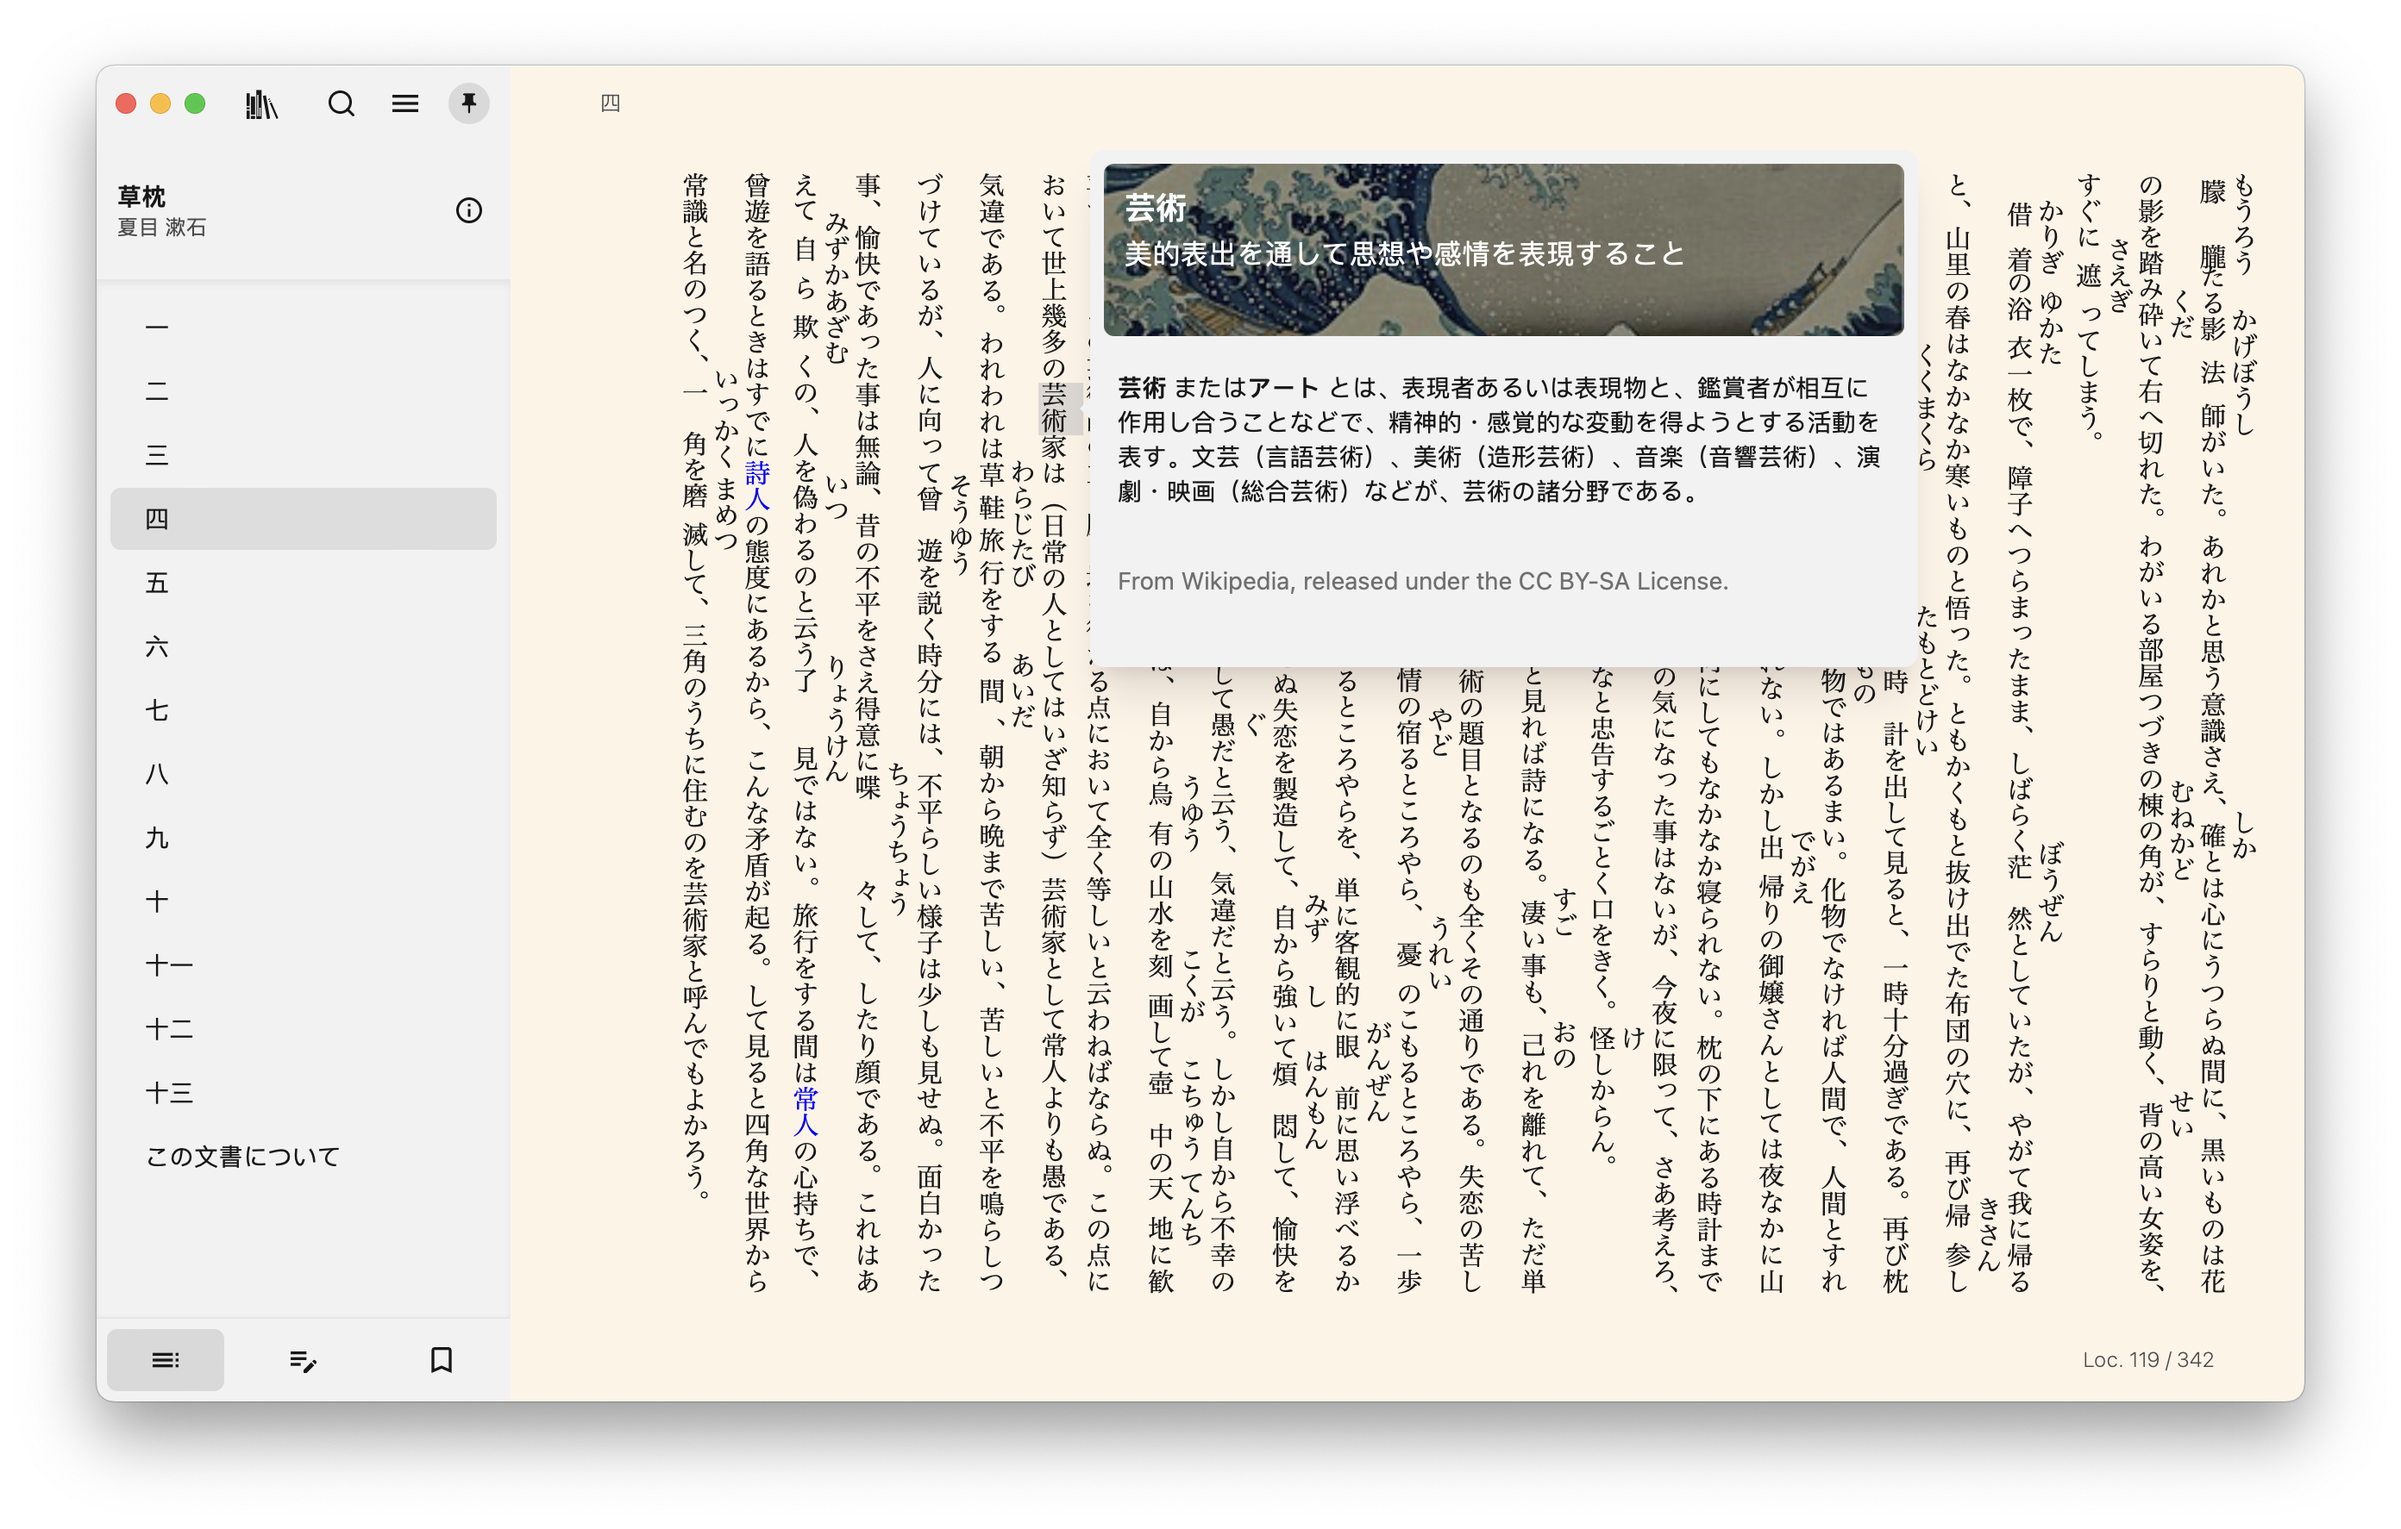
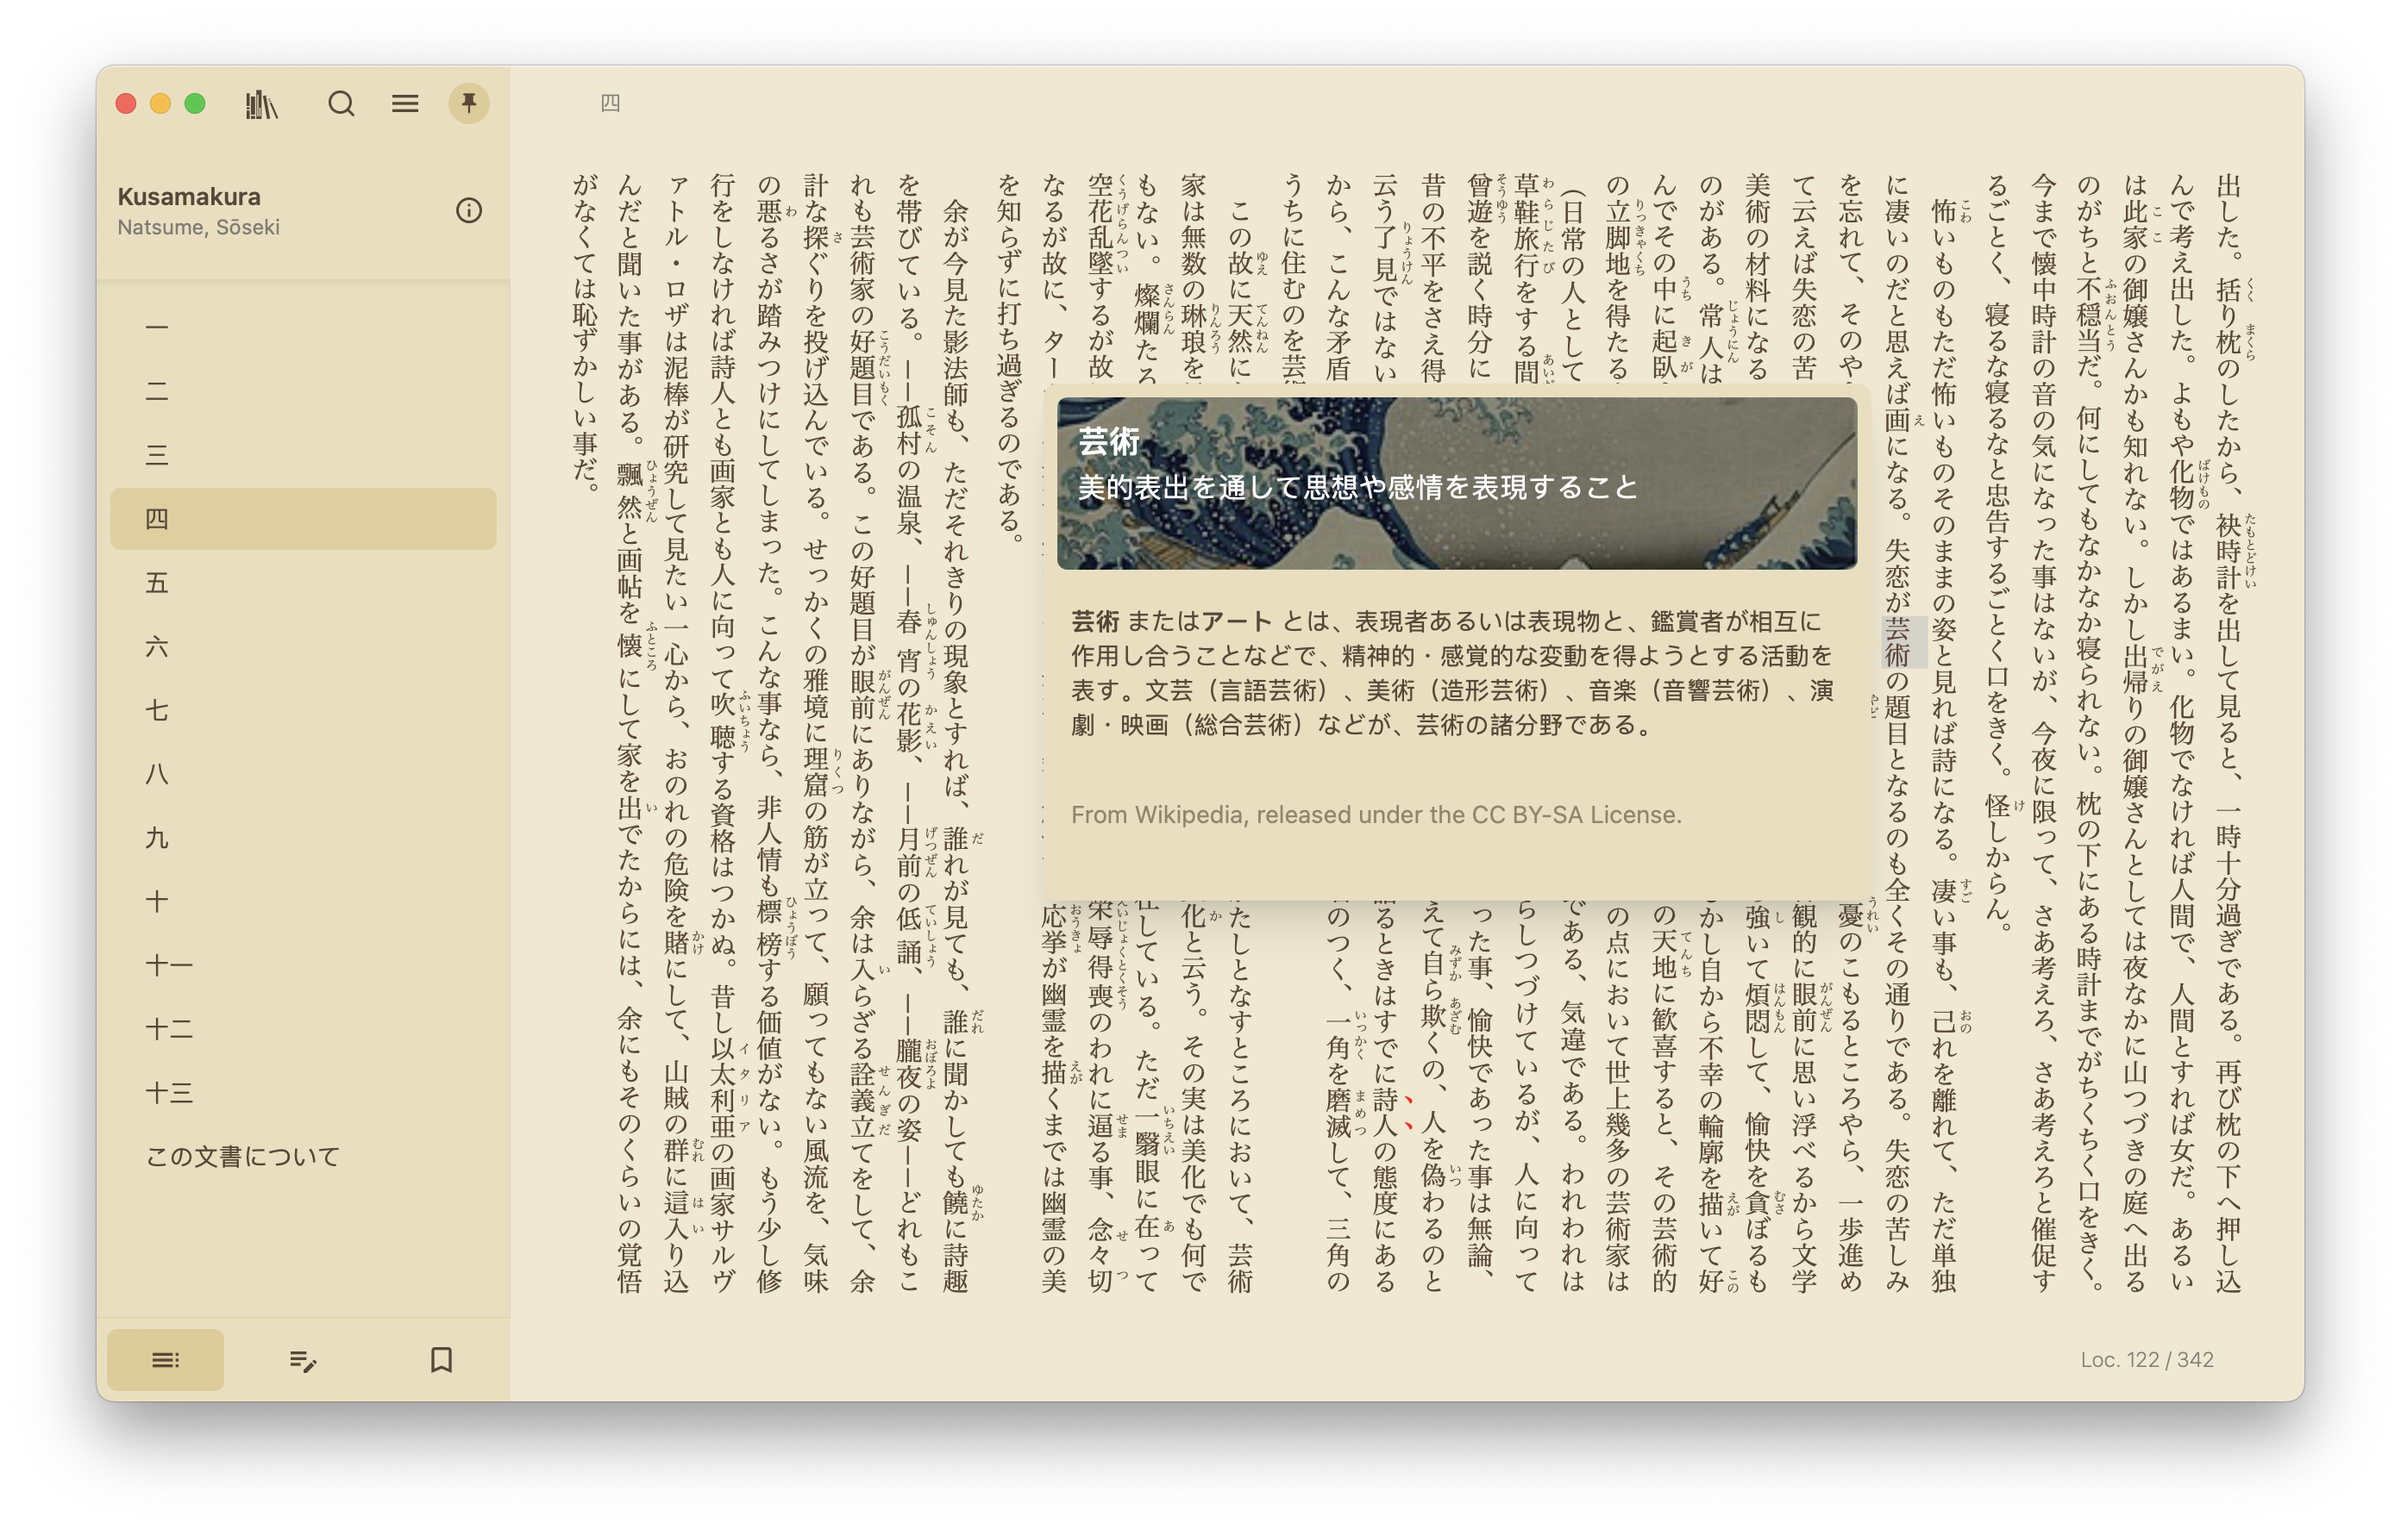
Release version 0.8.8

diff --git a/apps/readest-app/src/app/reader/components/settings/SettingsDialog.tsx b/apps/readest-app/src/app/reader/components/settings/SettingsDialog.tsx
@@ -38,7 +38,7 @@ const SettingsDialog: React.FC<{ bookKey: string; config: BookConfig }> = ({ boo
   }, []);
 
   return (
-    <dialog className='modal modal-open min-w-90 w-full'>
+    <dialog className='modal modal-open min-w-90 w-full !bg-[rgba(0,0,0,0.2)]'>
       <div className='modal-box settings-content flex h-[60%] w-1/2 min-w-[480px] max-w-full flex-col p-0'>
         <div className='dialog-header bg-base-100 sticky top-0 z-10 flex items-center justify-center px-4 pt-2'>
           <div className='dialog-tabs flex h-10 max-w-[80%] flex-grow items-center justify-around'>

diff --git a/README.md b/README.md
@@ -84,7 +84,7 @@ Stay tuned for continuous improvements and updates! Contributions and suggestion
 
 ![Wikipedia](./data/screenshots/wikipedia_vertical.png)
 
-![Dark Mode](./data/screenshots/dark_mode.png)
+![Themeing Dark Mode](./data/screenshots/theming_dark_mode.png)
 
 ---
 
